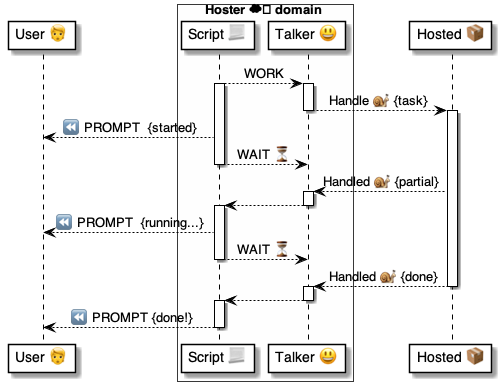
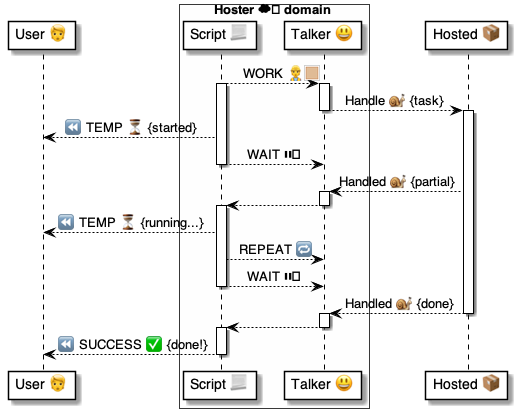
.

Changed region(s): [[0.0, 0.0, 1.0, 0.9821], [0.8084, 0.798, 0.988, 0.9821]]

diff --git a/4 ⚙ Solution/35 💬 Chats/😃 Talkers/😃⚙ Talker cmds/...control ▶/WORK 👷🏼/WORK 👷🏼 cmd.md b/4 ⚙ Solution/35 💬 Chats/😃 Talkers/😃⚙ Talker cmds/...control ▶/WORK 👷🏼/WORK 👷🏼 cmd.md
@@ -1,12 +1,14 @@
-# 😃🍂 Talker `ASYNC` command
+# 😃👷🏼 Talker `WORK` command
 
 > Part of [Talker 😃](<../../../😃 Talker role.md>)
 
+> Implements the [`Async` ⏩ flow](<../../../😃⏩ Talker flows/Async Tasks 😃⏩📦/😃 Async ⏩ flow.md>)
+
 <br/>
 
-1. **What's an ASYNC command?**
+1. **What's an WORK command?**
 
-    An `ASYNC`
+    An `WORK`
     * is a [Command ⌘](<../../...commands ⌘/Command ⌘/Command ⌘.md>)
     * that calls the [`Handle@Hosted` 🅰 method](<../../../../../55 👷 Build domains/Hosteds 📦/📦🅰 Hosted methods/Handle 😃🐌📦/📦 Handle 🐌 msg.md>)
     * has an asynchronous background task
@@ -16,10 +18,10 @@
     <br/>
 
 
-1. **What's the syntax of ASYNC?**
+1. **What's the syntax of WORK?**
 
     ```yaml
-    ASYNC|<task> >> $output:
+    WORK|<task> >> $output:
         {input}
     ```
 
@@ -32,16 +34,16 @@
     ---
     <br/>
 
-1. **What are examples of ASYNC?**
+1. **What are examples of WORK?**
 
     ```yaml
     # Task without a inputs and outputs
-    - ASYNC|MyTask
+    - WORK|MyTask
     ```
 
     ```yaml
     # Task with only inputs
-    - ASYNC|MyTask:
+    - WORK|MyTask:
         A: 1
         B: 2
     ```
@@ -58,7 +60,7 @@
 
     ```yaml
     # Task with an output
-    - ASYNC|MyTask >> $output:
+    - WORK|MyTask >> $output:
         {A:1}
 
     # Wait for the output
